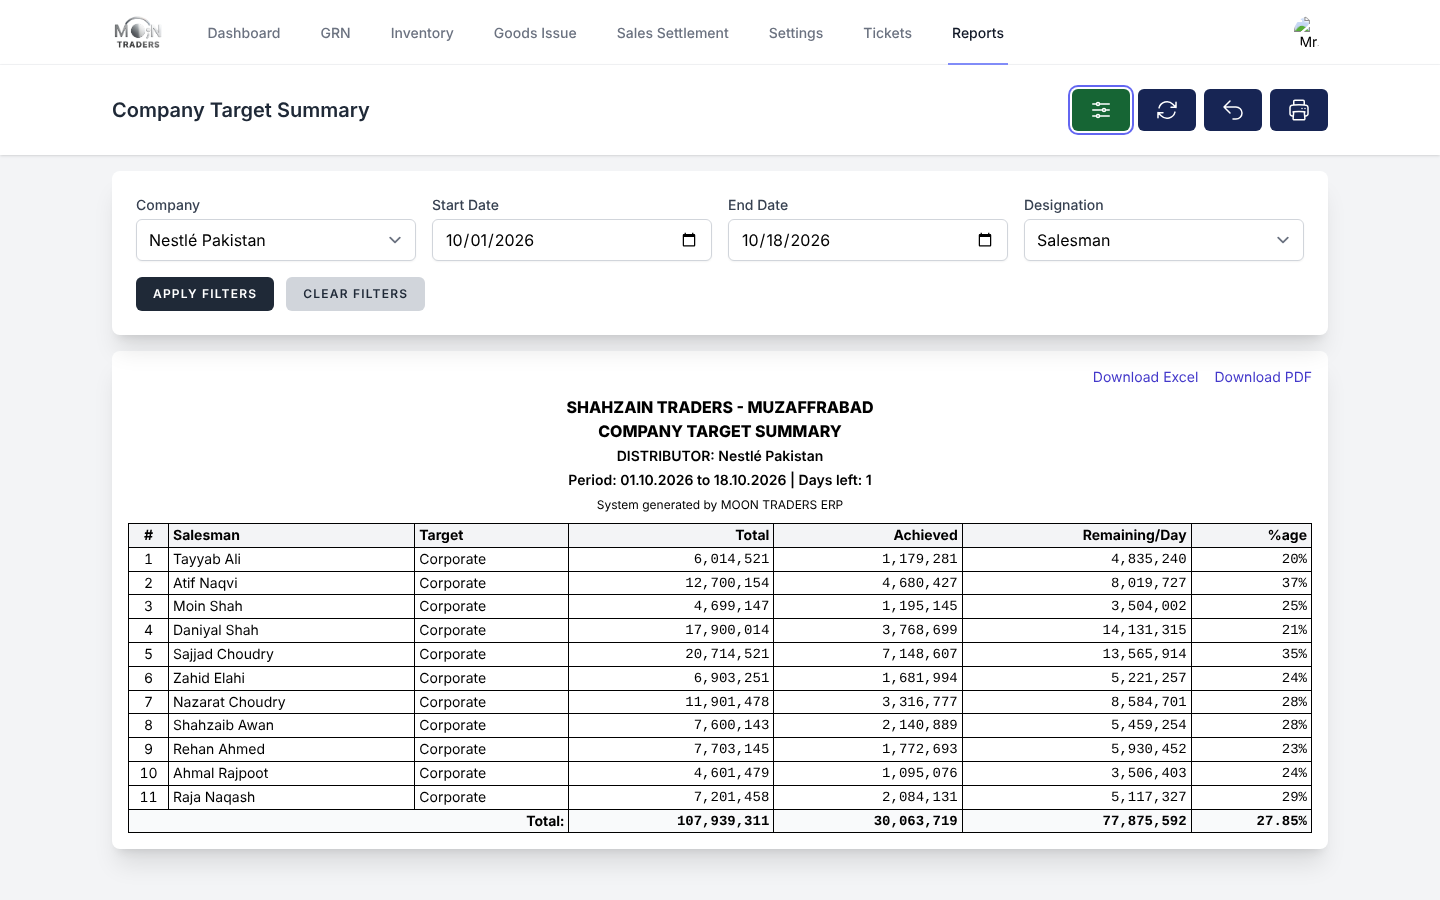
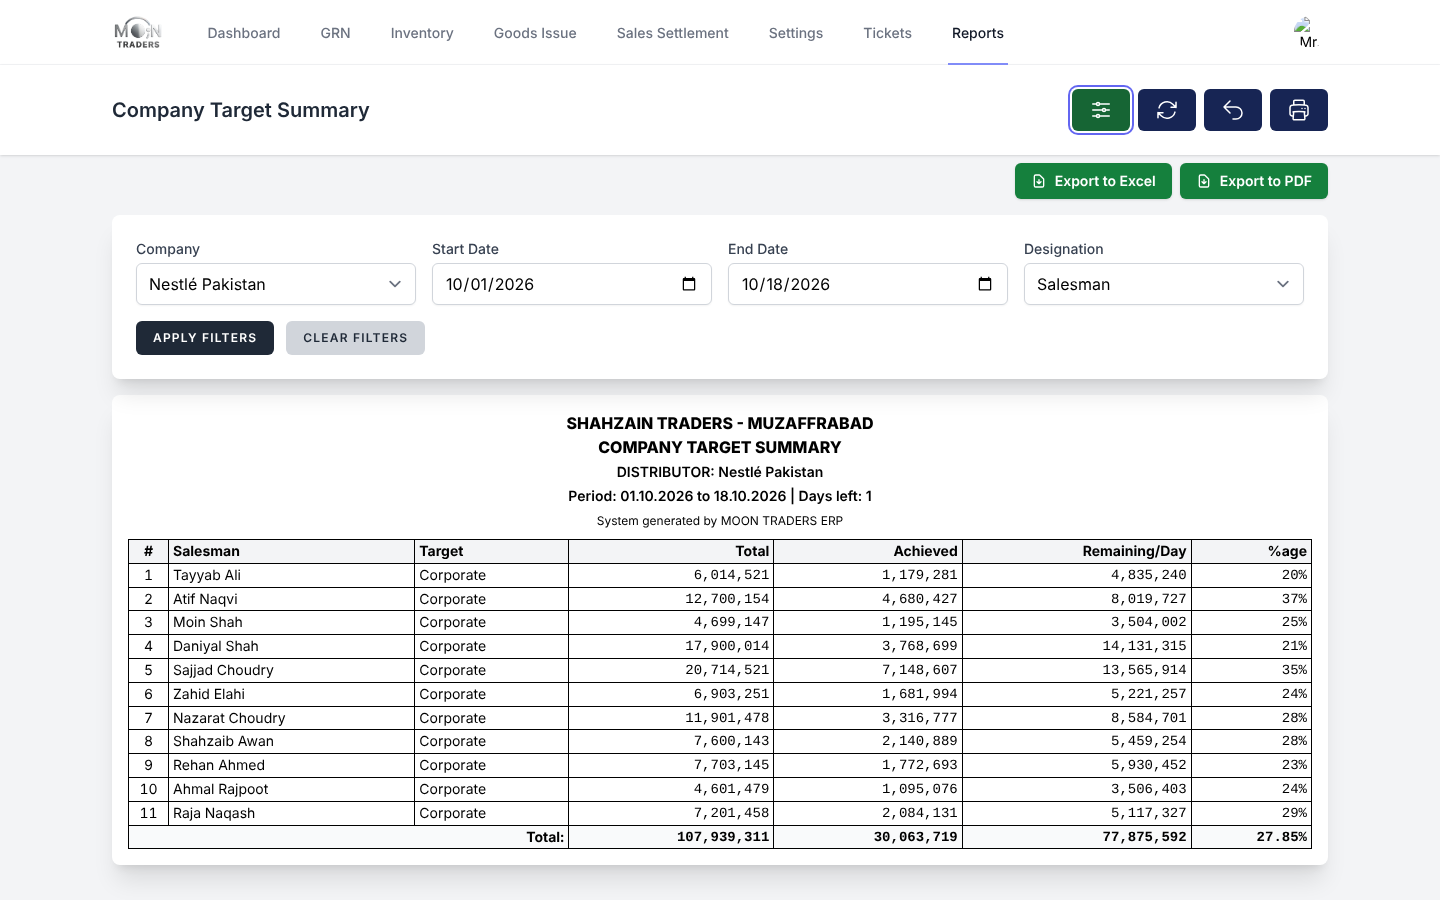
Company Target Summary: put Excel and PDF in the standard export button bar
Same green buttons, in the same place under the header, as the other reports.

Claude-Session: https://claude.ai/code/session_01MDwDNp7qRUaKGFX7KQuxFy

Changed region(s): [[0.0625, 0.2178, 0.9375, 0.9644], [0.6875, 0.1556, 0.9375, 0.3422], [0.4688, 0.2178, 0.5938, 0.3422]]

diff --git a/resources/views/reports/company-target-summary/index.blade.php b/resources/views/reports/company-target-summary/index.blade.php
@@ -81,6 +81,39 @@
         </style>
     @endpush
 
+    @if ($summary)
+        @php
+            $query = array_filter([
+                'supplier_id' => $supplier->id,
+                'from' => $from->toDateString(),
+                'to' => $to->toDateString(),
+                'designation' => $designation,
+            ], fn ($value) => $value !== null && $value !== '');
+        @endphp
+        <div class="max-w-7xl mx-auto sm:px-6 lg:px-8 mt-2 no-print">
+            <div class="flex justify-end gap-2">
+                <a href="{{ route('reports.company-target-summary.export.excel', $query) }}"
+                    class="inline-flex items-center gap-2 px-4 py-2 bg-green-700 hover:bg-green-800 text-white text-sm font-semibold rounded-md shadow transition-colors duration-150">
+                    <svg xmlns="http://www.w3.org/2000/svg" class="w-4 h-4" fill="none" viewBox="0 0 24 24"
+                        stroke="currentColor">
+                        <path stroke-linecap="round" stroke-linejoin="round" stroke-width="2"
+                            d="M12 10v6m0 0l-3-3m3 3l3-3m2 8H7a2 2 0 01-2-2V5a2 2 0 012-2h5.586a1 1 0 01.707.293l5.414 5.414a1 1 0 01.293.707V19a2 2 0 01-2 2z" />
+                    </svg>
+                    Export to Excel
+                </a>
+                <a href="{{ route('reports.company-target-summary.export.pdf', $query) }}"
+                    class="inline-flex items-center gap-2 px-4 py-2 bg-green-700 hover:bg-green-800 text-white text-sm font-semibold rounded-md shadow transition-colors duration-150">
+                    <svg xmlns="http://www.w3.org/2000/svg" class="w-4 h-4" fill="none" viewBox="0 0 24 24"
+                        stroke="currentColor">
+                        <path stroke-linecap="round" stroke-linejoin="round" stroke-width="2"
+                            d="M12 10v6m0 0l-3-3m3 3l3-3m2 8H7a2 2 0 01-2-2V5a2 2 0 012-2h5.586a1 1 0 01.707.293l5.414 5.414a1 1 0 01.293.707V19a2 2 0 01-2 2z" />
+                    </svg>
+                    Export to PDF
+                </a>
+            </div>
+        </div>
+    @endif
+
     <div>
         <x-filter-section :action="route('reports.company-target-summary.index')" class="no-print">
             <div class="grid grid-cols-1 md:grid-cols-4 lg:grid-cols-4 gap-4">
@@ -139,22 +172,6 @@
                         <div
                             class="no-print mb-4 rounded-md border border-amber-200 bg-amber-50 px-4 py-3 text-sm text-amber-800">
                             Select a company from the filters to view the target summary.
-                        </div>
-                    @endif
-
-                    {{-- Download links --}}
-                    @if ($summary)
-                        @php
-                            $query = array_filter([
-                                'supplier_id' => $supplier->id,
-                                'from' => $from->toDateString(),
-                                'to' => $to->toDateString(),
-                                'designation' => $designation,
-                            ], fn ($value) => $value !== null && $value !== '');
-                        @endphp
-                        <div class="no-print flex justify-end gap-4 mb-2 text-sm">
-                            <a class="text-indigo-700 hover:underline" href="{{ route('reports.company-target-summary.export.excel', $query) }}">Download Excel</a>
-                            <a class="text-indigo-700 hover:underline" href="{{ route('reports.company-target-summary.export.pdf', $query) }}">Download PDF</a>
                         </div>
                     @endif
 
